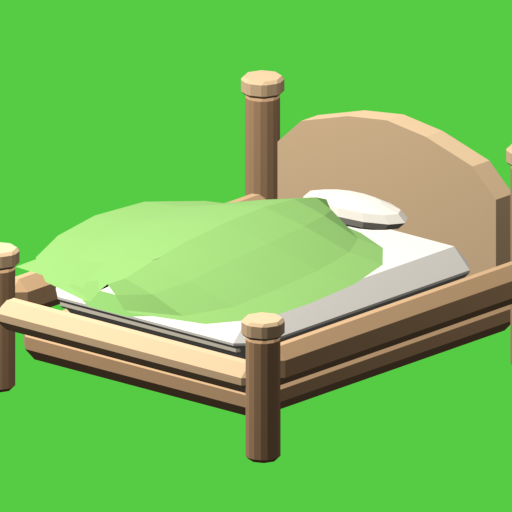
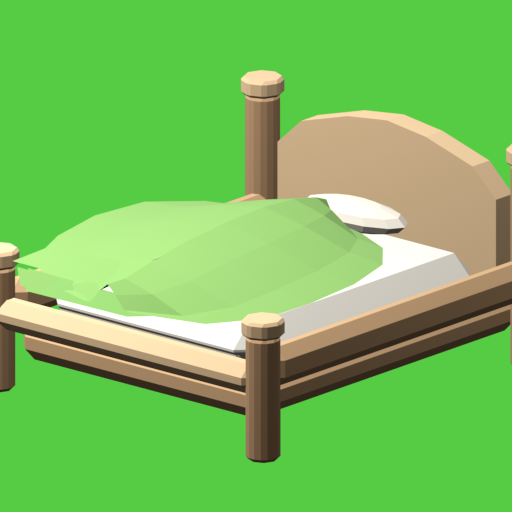
Finalize leaf bed asset

diff --git a/scripts/make_leaf_bed_final_clean_v1.py b/scripts/make_leaf_bed_final_clean_v1.py
@@ -4,12 +4,12 @@ import zipfile
 from pathlib import Path
 from mathutils import Vector
 
-OUT_DIR = Path('/root/leaf_bed_final_clean_v1')
+OUT_DIR = Path('/root/leaf_bed_final_clean_v8')
 OUT_DIR.mkdir(exist_ok=True)
-OUT_BLEND = OUT_DIR / 'leaf_bed_final_clean_v1_model.blend'
-OUT_GLB = OUT_DIR / 'leaf_bed_final_clean_v1_model.glb'
-CONTACT = OUT_DIR / 'leaf_bed_final_clean_v1_contact_sheet.png'
-ZIP_PATH = Path('/root/leaf_bed_final_clean_v1_assets.zip')
+OUT_BLEND = OUT_DIR / 'leaf_bed_final_clean_v8_model.blend'
+OUT_GLB = OUT_DIR / 'leaf_bed_final_clean_v8_model.glb'
+CONTACT = OUT_DIR / 'leaf_bed_final_clean_v8_contact_sheet.png'
+ZIP_PATH = Path('/root/leaf_bed_final_clean_v8_assets.zip')
 CHROMA = '#55cc44'
 
 PALETTE = {
@@ -101,11 +101,11 @@ cube('soft_front_rail', (0, -0.82, 0.315), (1.34, 0.13, 0.12), M['wood_light'], 
 cube('left_rounded_rail', (-0.66, -0.02, 0.35), (0.12, 1.52, 0.16), M['wood'], 0.045)
 cube('right_rounded_rail', (0.66, -0.02, 0.35), (0.12, 1.52, 0.16), M['wood'], 0.045)
 # Clean warm mattress, visible only as tidy border under leaf.
-cube('clean_warm_cream_mattress', (0, -0.04, 0.392), (1.06, 1.38, 0.17), M['cream'], 0.08)
-cube('single_soft_mattress_front_band', (0, -0.70, 0.372), (0.92, 0.030, 0.050), M['cream_shadow'], 0.01)
+cube('clean_warm_cream_mattress', (0, -0.04, 0.365), (1.06, 1.38, 0.17), M['cream'], 0.08)
+cube('single_soft_mattress_front_band', (0, -0.70, 0.345), (0.92, 0.030, 0.045), M['cream_shadow'], 0.01)
 
 # Simple rounded pillow; low and clean, peeking behind blanket.
-bpy.ops.mesh.primitive_uv_sphere_add(segments=12, ring_count=6, radius=0.5, location=(0, 0.50, 0.548))
+bpy.ops.mesh.primitive_uv_sphere_add(segments=12, ring_count=6, radius=0.5, location=(0, 0.50, 0.530))
 pillow = bpy.context.object
 pillow.name = 'simple_rounded_cream_pillow'
 pillow.scale = (0.52, 0.22, 0.12)
@@ -178,10 +178,10 @@ leaf = mesh_obj('single_soft_puffy_leaf_blanket', verts, faces, M['leaf'])
 
 # Soft front lip reads as subtle blanket thickness, not a floating piece.
 front_lip = [
-    # Very subtle underside at the front: enough to read as cloth/leaf thickness,
-    # but it follows the mattress edge instead of hovering over it.
-    (-0.32, -0.825, 0.508), (0.32, -0.825, 0.508),
-    (0.10, -0.955, 0.486), (-0.10, -0.955, 0.486)
+    # Very subtle underside at the front: extended a little to the left to cover the
+    # remaining cream mattress speck without changing the whole blanket shape.
+    (-0.52, -0.825, 0.522), (0.32, -0.825, 0.508),
+    (0.10, -0.955, 0.486), (-0.42, -0.955, 0.482)
 ]
 mesh_obj('rounded_leaf_front_blanket_lip', front_lip, [(0,1,2,3)], M['leaf_shadow'])
 
@@ -189,14 +189,25 @@ mesh_obj('rounded_leaf_front_blanket_lip', front_lip, [(0,1,2,3)], M['leaf_shado
 # mattress peeks through the blanket. These are deliberately flat and low-poly: they
 # behave like painted parts of the leaf, not new decorative details.
 front_gap_patch = [
-    # Slightly larger and raised above the cream mattress so the small white triangle
-    # at the front-left edge reads as part of the leaf blanket.
-    (-0.520, -0.900, 0.545),
-    (-0.155, -0.925, 0.545),
-    (-0.235, -0.720, 0.575),
-    (-0.485, -0.745, 0.565),
+    # Tiny raised leaf-colored flap over the front-left mattress peek-through.
+    # Extended one drop toward the center because the remaining white point sits
+    # just to the right of the previous patch.
+    (-0.535, -0.900, 0.565),
+    (-0.020, -0.900, 0.565),
+    (-0.155, -0.700, 0.598),
+    (-0.500, -0.745, 0.588),
 ]
 mesh_obj('leaf_color_patch_front_left_white_speck', front_gap_patch, [(0, 1, 2, 3)], M['leaf'])
+front_left_droplet = [
+    (-0.515, -0.895, 0.545),
+    (-0.285, -0.905, 0.548),
+    (-0.355, -0.955, 0.485),
+    (-0.455, -0.945, 0.495),
+]
+mesh_obj('subtle_leaf_droplet_front_left_cover', front_left_droplet, [(0, 1, 2, 3)], M['leaf'])
+# Tiny raised soft leaf chip: covers the last visible cream point on the front-left.
+# A very shallow bevel makes it read like part of the blanket edge instead of a flat sticker.
+cube('tiny_raised_leaf_chip_front_left', (-0.245, -0.790, 0.565), (0.285, 0.070, 0.014), M['leaf_edge'], 0.010, rot=(0, 0, -0.10))
 rear_gap_patch = [
     (-0.105, 0.205, 0.588),
     (0.065, 0.205, 0.588),
@@ -278,7 +289,7 @@ for name, (loc, scale) in views.items():
     cam.location = loc
     cam.data.ortho_scale = scale
     look_at(cam, (0, -0.08, 0.50))
-    out = OUT_DIR / f'leaf_bed_final_clean_v1_{name.lower()}.png'
+    out = OUT_DIR / f'leaf_bed_final_clean_v8_{name.lower()}.png'
     raw = OUT_DIR / f'_raw_{name.lower()}.png'
     bpy.context.scene.render.filepath = str(raw)
     bpy.ops.render.render(write_still=True)